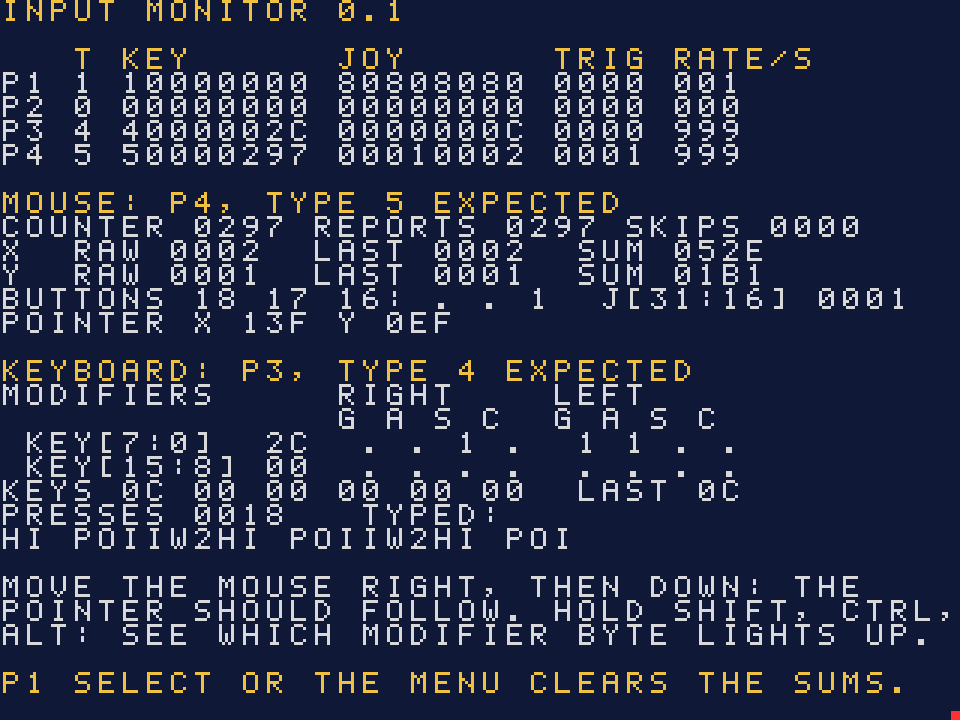
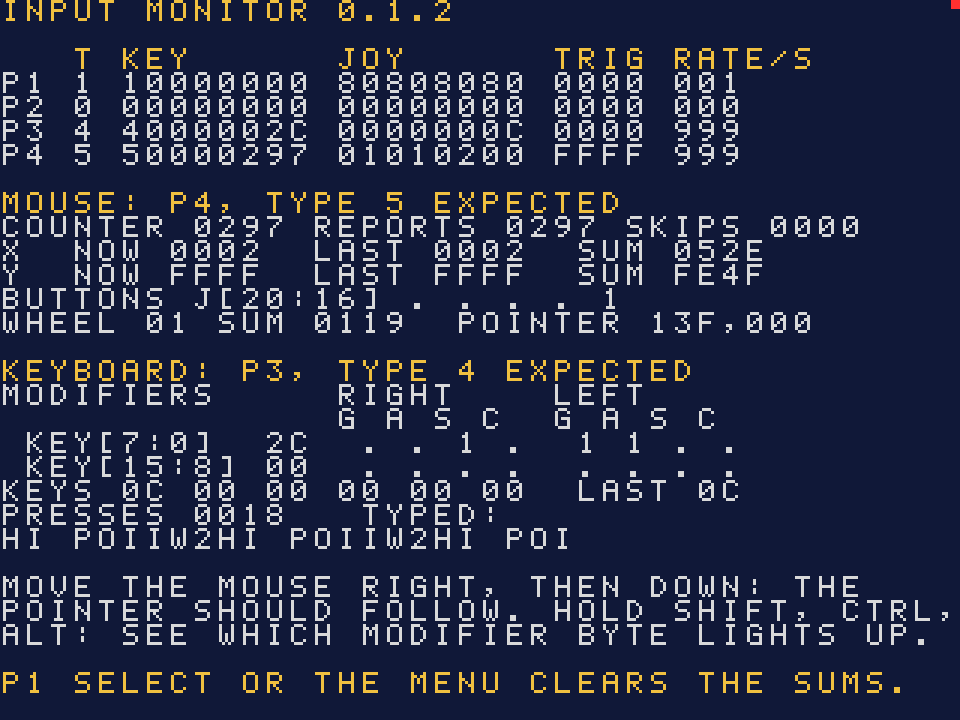
0.1.2: the mouse's counts are byte-swapped; five buttons; the wheel
On a Dock (Microsoft Classic IntelliMouse) X and Y read 0100 for +1
and FBFF for -5: each count's low byte is in bits [15:8], the report's
bytes packed from the top like the keyboard's. The monitor now swaps
them before summing and moving the pointer (0.1.1's pointer jumped
256 per count). The buttons are five bits, joy[20:16]; joy[31:24] is
shown as the presumed wheel with its own sum.

Claude-Session: https://claude.ai/code/session_013JDJ8LJJBGj4GfypR79Acj

diff --git a/tools/gen_screen.py b/tools/gen_screen.py
@@ -36,9 +36,10 @@ for n in range(1, 5):
     FIELDS['R%d' % n] = (12, 's_rate[%d]' % (n - 1))
 FIELDS.update({
     'MCNT': (16, 's_key[3][15:0]'),
-    'MX': (16, 's_joy[3][15:0]'),
-    'MY': (16, 's_trig[3]'),
-    'MHI': (16, 's_joy[3][31:16]'),
+    'MX': (16, "{s_joy[3][7:0], s_joy[3][15:8]}"),
+    'MY': (16, "{s_trig[3][7:0], s_trig[3][15:8]}"),
+    'MW': (8, 's_joy[3][31:24]'),
+    'SW': (16, 's_sumw'),
     'LDX': (16, 's_ldx'),
     'LDY': (16, 's_ldy'),
     'SX': (16, 's_sumx'),
@@ -52,7 +53,7 @@ FIELDS.update({
     'LAST': (8, 's_last'),
     'PRESS': (16, 's_presses'),
 })
-for b in range(3):
+for b in range(5):
     FIELDS['B%d' % (16 + b)] = (1, 's_joy[3][%d]' % (16 + b))
 for b in range(16):
     FIELDS['M%d' % b] = (1, 's_key[2][%d]' % b)
@@ -61,7 +62,7 @@ for i, (w, b) in enumerate((('joy', 0), ('joy', 8), ('joy', 16), ('joy', 24), ('
 
 # The layout: (row, text, highlight)
 LAYOUT = [
-    (0, 'INPUT MONITOR 0.1.1', True),
+    (0, 'INPUT MONITOR 0.1.2', True),
     (2, '   T KEY      JOY      TRIG RATE/S', True),
     (3, 'P1 {T1:x1} {K1:x8} {J1:x8} {G1:x4} {R1:x3}', False),
     (4, 'P2 {T2:x1} {K2:x8} {J2:x8} {G2:x4} {R2:x3}', False),
@@ -69,10 +70,10 @@ LAYOUT = [
     (6, 'P4 {T4:x1} {K4:x8} {J4:x8} {G4:x4} {R4:x3}', False),
     (8, 'MOUSE: P4, TYPE 5 EXPECTED', True),
     (9, 'COUNTER {MCNT:x4} REPORTS {REP:x4} SKIPS {SKIP:x4}', False),
-    (10, 'X  RAW {MX:x4}  LAST {LDX:x4}  SUM {SX:x4}', False),
-    (11, 'Y  RAW {MY:x4}  LAST {LDY:x4}  SUM {SY:x4}', False),
-    (12, 'BUTTONS 18 17 16: {B18:b} {B17:b} {B16:b}  J[31:16] {MHI:x4}', False),
-    (13, 'POINTER X {PX:x3} Y {PY:x3}', False),
+    (10, 'X  NOW {MX:x4}  LAST {LDX:x4}  SUM {SX:x4}', False),
+    (11, 'Y  NOW {MY:x4}  LAST {LDY:x4}  SUM {SY:x4}', False),
+    (12, 'BUTTONS J[20:16] {B20:b} {B19:b} {B18:b} {B17:b} {B16:b}', False),
+    (13, 'WHEEL {MW:x2} SUM {SW:x4}  POINTER {PX:x3},{PY:x3}', False),
     (15, 'KEYBOARD: P3, TYPE 4 EXPECTED', True),
     (16, 'MODIFIERS     RIGHT    LEFT', False),
     (17, '              G A S C  G A S C', False),

diff --git a/sim/tb.cpp b/sim/tb.cpp
@@ -51,9 +51,11 @@ int main(int argc, char **argv) {
         }
         if (ph == 3000) {
             bool moving = (n % 2) == 0;
-            int16_t dx = moving ? 2 : 0, dy = moving ? (c > 30000000 ? 1 : 0) : 0;
-            t->cont4_joy = (1u << 16) | (uint16_t)dx;
-            t->cont4_trig = (uint16_t)dy;
+            int16_t dx = moving ? 2 : 0, dy = moving ? (c > 30000000 ? -1 : 0) : 0;
+            // as the Dock sends them: each count's low byte in [15:8]; buttons in [20:16]; wheel [31:24]
+            auto sw = [](int16_t v) { return (uint16_t)(((uint16_t)v << 8) | ((uint16_t)v >> 8)); };
+            t->cont4_joy = (1u << 16) | (c > 50000000 ? 0x01000000u : 0) | sw(dx);
+            t->cont4_trig = sw(dy);
         }
         t->clear_74a = 0;
         t->clk_74a = 1;

diff --git a/README.md b/README.md
@@ -29,7 +29,7 @@ mouse moving right and down with a button held on P4.)*
 | Rows | What |
 |---|---|
 | **P1-P4** | Each controller's type (`key[31:28]`), raw `key`, `joy` and `trig` words in hex, and how many times per second the controller's words change (`RATE/S`, decimal, up to 999). |
-| **MOUSE** | Read as player 4, type 5 (the Atari ST core's notes): `key[15:0]` a report counter, X in `joy[15:0]`, Y in `trig[15:0]`, buttons in `joy[18:16]`. On each change of the counter, half a poll later, the core takes X and Y as one report's motion. It adds them to `SUM` (hex, 16-bit; negative values wrap, e.g. FFFE = -2) and moves the red pointer. `LAST` is the last non-zero X and Y. `SKIPS` counts counter jumps of more than 1. |
+| **MOUSE** | Player 4, type 5, as found on a Dock (0.1.1, a Microsoft Classic IntelliMouse): `key[15:0]` a report counter; X in `joy[15:0]` and Y in `trig[15:0]`, each a signed 16-bit count with its **low byte in bits [15:8]** (so the raw word 0100 is +1 and FBFF is -5; `NOW` shows them swapped into order); five buttons in `joy[20:16]`; `joy[31:24]` presumably the wheel. On each change of the counter, half a poll later, the core takes X and Y as one report's motion, adds them to `SUM` (hex, 16-bit; negative values wrap, e.g. FFFE = -2) and moves the red pointer. `LAST` is the last non-zero X and Y. `SKIPS` counts counter jumps of more than 1. |
 | **KEYBOARD** | Read as player 3, type 4: the six HID usage codes in `joy` (bytes 0-3) and `trig` (bytes 0-1). Both candidate modifier bytes are shown bit by bit, under the HID modifier layout (bit 7 to 0: right GUI, Alt, Shift, Ctrl, then left GUI, Alt, Shift, Ctrl). Each newly pressed key counts in `PRESSES`, shows in `LAST`, and is echoed under `TYPED` (Enter clears the line, Backspace deletes). |
 
 **Select** on player 1, or **Clear the sums** in the core's menu, clears the
@@ -53,10 +53,10 @@ report back.
    (positive), and the pointer should go right. Then move down only: does
    `SUM Y` count up (down = positive, the usual HID convention) and does the
    pointer go down?
-5. **Buttons:** press left, right and middle in turn: note which of the
-   `BUTTONS 18 17 16` bits lights for each.
-6. **Wheel:** scroll up and down. Note which word changes: `J[31:16]`, `KEY`
-   or `TRIG`.
+5. **Buttons:** press left, right, middle, back and forward in turn: note
+   which of the five `BUTTONS` bits lights for each.
+6. **Wheel:** scroll up, then down: does `WHEEL` / its `SUM` move (and which
+   way), or does another word change (`KEY`, `TRIG`)?
 7. **Rate:** move the mouse continuously and read P4's `RATE/S` (the report
    rate as the core sees it; the pad poll runs at about 1,130 per second).
 
